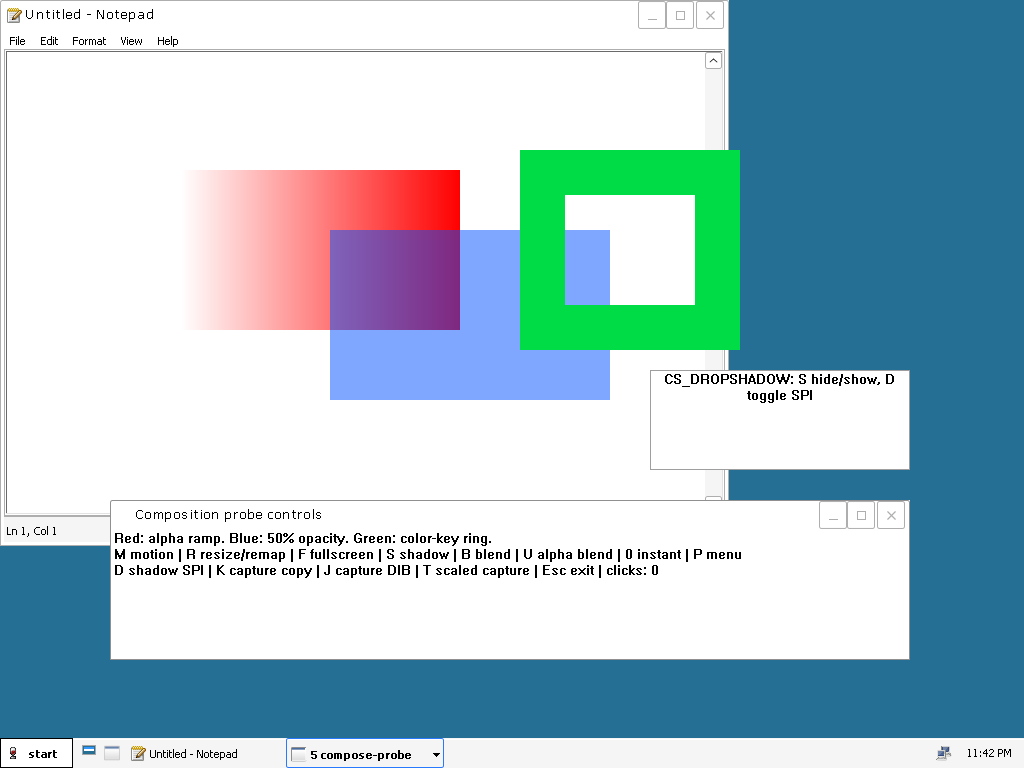
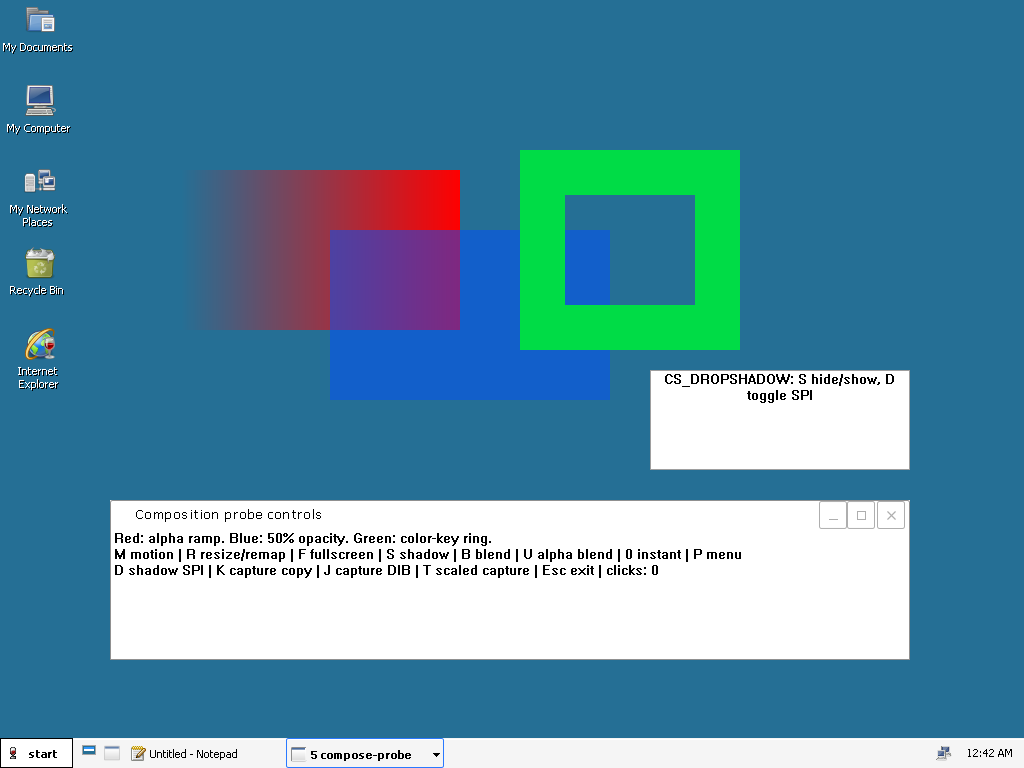
docs: Complete Wayland L1 acceptance and combined-build handoff

diff --git a/docs/WAYLAND_L1.md b/docs/WAYLAND_L1.md
@@ -1,23 +1,54 @@
 <!-- SPDX-License-Identifier: GPL-2.0-or-later -->
 # Wayland L1 Wine integration
 
-Status: in progress, 2026-10-13. Acceptance is not yet claimed.
+Status: complete, 2026-10-14. Accepted integration is merged and pushed.
 Scope: WAYLAND_INTEGRATION_WORKORDER.md; shipping X11 stays unchanged.
 
 ## Environment
 
 Compositor development uses ProtonExplorer-VM (SSH 2223). Source/build is
-~/wexcomp-build, candidate codex/wex-window-handles at 192ab62b, from
+~/wexcomp-build, candidate codex/wex-window-handles at 9a47d74, from
 wexcomp ad962566bd169c3c27fafdaac9780a599fb7624a.
 Debian wlroots 0.18.2 development packages installed; meson/ninja build passes.
 No dev runtime or ISO defaults are changed. Gemini's WSL wexcomp/wexbuild
 distributions are untouched. Wine edits use the separate host fork worktree
-build/wayland/wine, branch codex/wayland-integration, now 3bb585c4ee. It includes
-the concurrent production f5016cf theme fix. Owned source is on the experimental
-project branch codex/wayland-l1 at 1e94efb9; master still ships X11.
+build/wayland/wine, branch codex/wayland-integration, now 05286f7c90. It includes
+the concurrent production theme commits through 70e6378514 and the verified
+Wayland integration through ea0654efdb. wineexplorer/11.19 is fast-forwarded
+to 05286f7c90; compositor wexcomp to 9a47d74f. Owned source and the Wine pin
+are merged into project master through 2853f509. Master still defaults to X11.
 Final WoW64 build is /srv/protonexplorer/wex-wayland-l1/wow64-source/build/wine64,
 configured with --enable-archs=i386,x86_64. Historical win64-only evidence below
-predates the new mandatory build rule; final WoW64 acceptance remains pending.
+predates the new mandatory build rule. Final WoW64 results are below.
+
+## Final WoW64 acceptance
+
+All tests use public resources and isolated prefixes. Recorded results on the
+ea0654efdb runtime, followed by a complete combined 05286f7c90 WoW64 build
+and click, native focus, composition, 32-bit Notepad and shell capture rechecks:
+
+| Requirement | Result / evidence |
+|---|---|
+| Full WoW64 build, both MinGW C++17 compilers | FINAL_WOW64_BUILD_PASSED; staged install and runtime package complete |
+| Shared coordinates, independently launched second process | Seven placements exactly match X11 at 100%; within 1 px at 150% |
+| Cross-process stacking, mixed bitness | WIN32_SHARED_STACKING_PASSED; 64-bit A/C and 32-bit B, relative orders, topmost and no focus theft |
+| Native `/shell`, desktop bottom, work area | 1024x768 desktop, taskbar at y=738, SPI_GETWORKAREA=(0,0)-(1024,738); no display-mode call |
+| Click activation and covered-window input | CLICK_RAISES_AND_DESKTOP_BOTTOM_PASSED; NoActivate preserves foreground; restored Notepad receives a covered-area click |
+| Taskbar minimize/restore, menus, 32-bit program | NOTEPAD32_TASKBAR_AND_MAXIMIZE_PASSED; real taskbar clicks, Alt+F, maximized visible frame stops at y=738; menu-wow64.png/maximized-wow64.png |
+| Topmost and shell layer | Topmost probe above maximized Notepad and below taskbar; topmost-wow64.png; Start menu opens in start-wow64.png |
+| Alpha, color key and requested rectangles | COMPOSE_PLACEMENT_AND_ALPHA_PASSED; five rectangles within 1 px; per-pixel ramp, 50% blue and key hole match X11 within one color value; compose-*-wow64.png |
+| Pointer warp | POINTER_PROTOCOL_AND_MOTION_PASSED; actual wp_pointer_warp_v1 request and motion at (950,600) |
+| Native Wayland keyboard focus roundtrip | NATIVE_FOCUS_RETURN_PASSED; Wine receives a/c, foot receives b; queued deactivation cannot clear newer activation |
+| XWayland alongside Wine | XWAYLAND_AND_WINE_FOCUS_RETURN_PASSED; mixed-xwayland-wow64.png |
+| Stock labwc / private v1 fallback | STOCK_CAPTURED / V1_FALLBACK_PASSED; menu screenshots, v1 minimize/restore without v2 handles |
+| Compositor protocol regression | 26/26, including three independent v2 clients, stale/self/cross-layer isolation and non-raising inactive restore |
+| X11 on build and dev VMs | Focus/NoActivate/tray bounds pass; eight 800x600 native-dialog cases pass after readiness polling |
+| X11 D1/D2 on build and dev VMs | Five D1 cycles pass; D2 blending and restored styles/attributes pass; d2-effects-wow64.png |
+
+CS_DROPSHADOW pixels under Wayland remain the known L0 gap (D3 work), and are
+not claimed here. This is an opt-in test session; no ISO or shipping session
+default changes. Existing screenshots without a WoW64 suffix are historical;
+the table distinguishes them from final WoW64 evidence.
 
 ## Integration finding
 
@@ -306,6 +337,22 @@ Additional command failures/corrections:
   Concurrent visual-style commits through 70e6378514 merge cleanly; combined
   build acceptance is pending. A compositor ls-remote using origin failed because
   its bare cache has no origin; use the explicit public repository URL.
+- First combined-build transfer used TarInfo's default 1970 timestamp; make
+  skipped the changed sources and printed success without compiling the new
+  msstyles_v4 file. That status is rejected. Set current archive timestamps,
+  re-extract and rebuild; Makefile contains both architectures' new module and
+  CURRENT_THEME_WOW64_BUILD_PASSED follows actual compilation. Tar warned that
+  host timestamps were 2-3 seconds ahead of the VM; make completed correctly.
+- First combined-session click run reached the readiness deadline before the
+  shell was visible; its log was empty and later phases were not run. Warm repeat
+  passes click/covered input, native focus and composition comparison. An attempted
+  explorer.log read failed; the launcher's file is shell.log. Combined-build
+  32-bit Notepad taskbar/menu/maximize and Start/topmost captures also pass.
+- SHA-256 source manifest matches all 25 integration/theme files to 05286f7c90;
+  the assembled checkout's old Git version string is not its effective source
+  identity. checks/source-candidate.txt records the verified candidate. Do not
+  reset the assembled tree. Final nested session.Y9Dz8L/Xvfb :30 is stopped;
+  isolated Wine/compositor exited, both real VM desktops remain running.
 
 The helper scripts are test tools, not session/ISO defaults. Compile dependencies:
 both MinGW GCC architectures; capture/input dependencies: grim, ImageMagick,

diff --git a/docs/CODEX_HANDOFF.md b/docs/CODEX_HANDOFF.md
@@ -1,4 +1,56 @@
-# Codex handoff — 2026-10-13 refactor complete
+# Codex handoff — 2026-10-14 Wayland L1 complete
+
+Current work order WAYLAND_INTEGRATION_WORKORDER.md is complete. Read
+WAYLAND_L1.md for acceptance, failed-command corrections and public screenshots.
+The older refactor/installer notes below are historical; preserve their safety
+rules, but use these current pins for new builds.
+
+- Project master includes the five owned shell role/appbar/native-host changes
+  through merge 2853f509. Wine gitlink and wineexplorer/11.19 are
+  05286f7c90db81182be43ec257234b7cb3805672. This merges the accepted Wayland
+  integration through ea0654efdb with concurrent visual-style work through
+  70e6378514. Compositor wexcomp and codex/wex-window-handles are
+  9a47d74f365c4b42310b51e81916592a40d3046f. All updates are fast-forwards.
+- Every new Wine build must use --enable-archs=i386,x86_64 with both MinGW
+  C++17 compilers. Full combined build passes; 32-bit Notepad and mixed 32/64
+  cross-process stacking pass. No Gemini WSL distributions were used.
+- The new native explorer /shell path uses the compositor's desktop and output
+  modes. Standard optional xx-zones handles placement/shared coordinates;
+  private wex-window v2 uses opaque compositor handles published through shared
+  Win32 atoms for cross-process stacking. v1 requests remain compatible.
+- Click/NoActivate, desktop-bottom, taskbar minimize/restore and reservation,
+  topmost, menu, Start, pointer warp, alpha/color key, foot/XWayland focus and
+  DPI placement pass. Compositor suite 26/26. Stock labwc/v1 fallback pass.
+  Shipping X11, D1/D2 and native dialog bounds pass on isolated build/dev sessions.
+- Wine Wayland standard-only branch upstream/winewayland-zones ends at
+  01607e166c, with prepared description in UPSTREAM.md. User submits WineHQ MRs
+  manually. No MR was opened. Private protocol/roles remain fork-only.
+- Host restarted during testing. Both VirtualBox VMs are running: dev SSH 2222,
+  Proton build SSH 2223, wineuser, key D:/VirtualBox_VMs/vm_key. Real production
+  desktops were not restarted or replaced. User's .gitignore *.tmp edit is
+  intentionally uncommitted.
+- The final nested Wayland test session on Xvfb :30 was stopped after captures;
+  its compositor and isolated Wine processes exited. Both real desktops remain
+  running. Logs/screenshots are retained under the build root's checks directory.
+- Accepted build root: /srv/protonexplorer/wex-wayland-l1/wow64-source/build/wine64
+  on Proton VM. Assembled source was updated without resetting/rebasing its Git
+  checkout: its version string still names 3bb585c4ee, while checks/source-candidate.txt
+  and SHA-256 verification of all 25 changed integration/theme files identify
+  05286f7c90. Do not reset this assembled tree. Build status is
+  checks/wow64-current-theme-build.status CURRENT_THEME_WOW64_BUILD_PASSED.
+- The packaged public runtime-wow64-public.tar.gz (host build/wayland, guest
+  root above; dev ~/wex-wayland-l1/runtime-wow64) contains accepted ea0654efdb
+  code before the later visual-style merge. Dev X11 acceptance used this package.
+  Repackage the combined 05286f7c90 source before any deployment/ISO work; no
+  globally installed runtime or ISO default was changed for L1.
+- Maintained replay tools: scripts/wayland-session.sh and wayland-l1-check.sh,
+  plus C/Python probes described in WAYLAND_L1.md. Lab prefixes are isolated from
+  ~/.wine. Test-only session defaults to ~/wexcomp-build/build/labwc and private
+  wex-shell-0 for every Wine process. Normal Linux apps use the normal socket.
+  CS_DROPSHADOW pixels remain the known Wayland D3 gap; global hotkey forwarding
+  is L4. Foreign Linux window frames are L2. These are separate work orders.
+
+## Historical refactor handoff — 2026-10-13
 
 Read CLAUDE.md, LICENSE.md and STOCK_CHANGES.md first. All items in
 REFACTOR_WORKORDER.md are complete, including P3b extraction, P4 fresh

diff --git a/docs/STOCK_CHANGES.md b/docs/STOCK_CHANGES.md
@@ -5,7 +5,9 @@ rebasing on upstream Wine harder. Refactor baseline = the real `wine-11.19` tag
 (`455e3509b98a6919fd4ad1def4803e08c41c03b2`); see `REFACTOR_MAP.md` for the audit.
 Commit `40c17e1` is the imperfect upstream import, which also includes post-tag upstream changes.
 
-P4 now tracks Wine as a gitlink to d0a0af0681 on wineexplorer/11.19.
+P4 established Wine as a gitlink to d0a0af0681 on wineexplorer/11.19.
+Current pin is 05286f7c90, including accepted opt-in Wayland L1 integration
+and concurrent visual-style support. See WAYLAND_L1.md; X11 remains the default.
 Project CPLs/programs, wexhost and theme definitions live under src.
 Display Properties, wireless UI and media player replace stock stub modules
 through explicit assembly entries, with pristine originals preserved.
@@ -37,8 +39,7 @@ smoke without changing the production pin (REBASE.md).
 | `dlls/winewayland.drv` xx-zones-v1 | optional shared per-socket coordinate zone; volatile registry token supports independently launched processes; map/move positioning and feedback with surface scaling and tracked xdg geometry offset | only when compositor advertises xx_zone_manager_v1; upstream/winewayland-zones aed8b9599c + 01607e166c; retained 853c5b02c7 + 1bab2dda87 on codex/wayland-integration; seven placements match X11 exactly at 100% and within 1 px at 150% |
 | `dlls/winewayland.drv`; `include/wexwayland.h` | privileged layers, shared-handle cross-process relative stacking, native activation hook and minimized restore; generic scalar role/edge/size properties, no class checks | optional wex_window_manager_v1; ce019d67c7 + header correction 996f87f33f; activation/configure a83412b0ed; maximized work-area borders e3be0174be; shared atoms 97eb62958c; focus acknowledgement 89735ec1ef; background restore/logical stacking 624720e2b6; native focus loss with stale-event guard ea0654efdb; v1 same-connection fallback; v2 compositor 9a47d74 passes 26/26 |
 | `dlls/win32u/message.c` | skip implicit click activation of a WS_EX_NOACTIVATE root | generic Win32 style fix 8f1717c8f3; verified private Wayland and X11; upstream baseline incorrectly activated it |
-| `programs/explorer/desktop.c`, `explorer.c` | /shell without /desktop starts the plugin on the driver's desktop and skips display mode changes | explicit /shell only; candidate d7d46937a3, isolated Wayland shell starts; shipping pin remains unchanged pending acceptance |
-| `dlls/win32u/message.c` | do not mouse-activate a top-level carrying WS_EX_NOACTIVATE; explicit programmatic activation and MA_NOACTIVATE remain separate | generic candidate bug fix; real click tests pass under private Wayland and X11; old X11 baseline activates the NoActivate window, corrected build preserves the preceding foreground window |
+| `programs/explorer/desktop.c`, `explorer.c` | /shell without /desktop starts the plugin on the driver's desktop and skips display mode changes | explicit /shell only; d7d46937a3 included in accepted 05286f7c90; native Wayland shell passes |
 | `programs/explorer/desktop.c`, `explorer.c`; `include/wexshell.h` | load the versioned wexshell.dll plugin for the Windows-style shell and route its browser/applet commands; implementation lives in project modules under `src/dlls` (wexshell, wexres, themeui, msgina), while the stock host retains desktop creation, clipboard, COM registration and its message loop | shell startup only when `EnableShell=1` (`HKCU\Software\Wine\Explorer\Desktops\<name>`), named `shell`, or requested with `/shell`; missing/incompatible plugin uses stock behavior |
 | `programs/explorer/desktop.c` | `/shell` switch (before the program to run) enables the shell for that desktop; used by the Winlogon-style session script | only when given |
 | `programs/explorer/explorer.c` | `/wlan`, `/netstatus`, `/netprops` helper switches; `::{CLSID}` paths and `/e` accepted | token-based, only when given as arguments |

diff --git a/docs/UPSTREAM.md b/docs/UPSTREAM.md
@@ -256,9 +256,10 @@ Logs, exit codes and commit ids live in
 Fetch validated commits over the existing SSH connection and push from the
 host, keeping GitHub credentials off the guest.
 
-## Wine Wayland zones — 2026-10-13
+## Wine Wayland zones — 2026-10-14
 
-Branch: upstream/winewayland-zones, commit aed8b9599c46db289fd8f193e045e1ad11628bad,
+Branch: upstream/winewayland-zones, initial commit aed8b9599c46db289fd8f193e045e1ad11628bad
+and geometry correction 01607e166c (branch head),
 based on upstream master 081042ede6a165a36bf9988350dd584b440d7a3d.
 Submission remains manual; no WineHQ MR has been opened.
 
@@ -274,10 +275,12 @@ position feedback and rejoin/re-place on zone changes. Keep existing behavior
 when the protocol is absent. Vendor the MIT XML unchanged; new driver code is
 available under LGPL-2.1-or-later or GPL-2.0-or-later.
 
-Validation: Wine Wayland driver builds on Debian 13; six stationary windows match
-X11 captures pixel-for-pixel, and a second process joins the same handle and
-places its seventh window exactly at (740,50). Maintained probes:
+Validation: complete WoW64 build on Debian 13; six stationary windows match
+X11 captures pixel-for-pixel at 100%, and a second process joins the same handle
+and places its seventh window exactly at (740,50). At 150% all seven placements
+are within 1 px of X11. Maintained probes:
 scripts/wayland-position-probe.c and scripts/check-wayland-positions.py.
-The compositor's existing protocol suite passes 25/25. Final integration
-acceptance, stock-labwc fallback and fractional-DPI coverage remain in progress
-in WAYLAND_L1.md; this topic is prepared but not yet marked fully submission-ready.
+The compositor's protocol suite passes 26/26. Stock-labwc fallback and X11
+regression checks pass; final integration evidence is in WAYLAND_L1.md.
+This standard-only topic is ready for manual submission; private wex-window-v1
+and shell roles remain fork-only and are not part of this upstream branch.

diff --git a/docs/WAYLAND_CROSS_PROCESS_STACKING.md b/docs/WAYLAND_CROSS_PROCESS_STACKING.md
@@ -1,14 +1,15 @@
 <!-- SPDX-License-Identifier: GPL-2.0-or-later -->
 # Private protocol extension for cross-process stacking
 
-Status: user approved the compositor extension on 2026-10-13. Implementation and
-acceptance tests are in progress on codex/wex-window-handles in the Proton VM
-clone. Gemini's WSL distributions remain untouched.
+Status: implemented and verified, 2026-10-14. The user approved the extension
+on 2026-10-13. Compositor candidate codex/wex-window-handles is 9a47d74f;
+Wine integration through ea0654efdb is included in 05286f7c90. Gemini's WSL
+distributions remain untouched. Detailed acceptance: WAYLAND_L1.md.
 
 The v1 place_above/place_below sibling arguments are Wayland objects. They can
 reference only objects on the caller's connection. All shell Wine processes
 connecting to wex-shell-0 does not make their objects interchangeable.
-Wine's HWND list spans processes; current v1 integration can preserve layers
+Wine's HWND list spans processes; v1 integration can preserve layers
 and same-process relative order, but cannot express a foreign-process sibling.
 
 ## Version 2
@@ -43,3 +44,10 @@ a sibling in another process, SWP_NOACTIVATE, HWND_BOTTOM, topmost transitions,
 and activation/minimize/restore. Confirm v1/stock-labwc fallback and X11.
 Use the Proton VM clone and a separate codex branch; do not enter Gemini's WSL
 distributions or alter ISO/session defaults.
+
+Completed: compositor suite passes 26/26, including three independent v2
+clients, both relative orders, stale/unknown/self handles, cross-layer guards,
+normal-socket isolation and inactive restore preserving focus and normal order.
+The maintained Win32 harness passes with two 64-bit processes and a 32-bit
+process sharing HWND atoms. Private v1 and stock-labwc fallback, X11, real
+click activation, taskbar minimize/restore and native-app focus return pass.

diff --git a/docs/WAYLAND_PLAN.md b/docs/WAYLAND_PLAN.md
@@ -86,7 +86,7 @@ On all of them Wine apps run through XWayland by default; the Wayland driver is 
 | Phase | Work | Size |
 |---|---|---|
 | **L0 spike** | Measure the gaps (work order below) | days |
-| L1 | Compositor skeleton (tinywl/labwc) + layer-shell roles in Wine's driver + `wex-window-v1` + the Wine driver commit for it | weeks |
+| L1 | Compositor skeleton (tinywl/labwc) + layer-shell roles in Wine's driver + `wex-window-v1` + the Wine driver commit for it | Completed 2026-10-14; opt-in session, acceptance in WAYLAND_L1.md |
 | L2 | Linux apps: foreign toplevels, Explorer frames, XWayland | weeks |
 | L3 | D1/D2 effects and capture in the compositor | 1–2 weeks |
 | L4 | Hotkeys, session lock, Wayland greeter (LightDM), output management, multi-monitor | weeks |

diff --git a/docs/WAYLAND_INTEGRATION_WORKORDER.md b/docs/WAYLAND_INTEGRATION_WORKORDER.md
@@ -99,6 +99,10 @@ compositor) or `wexbuild` (Gemini's installer work). Never use the dev VM's genu
 
 ## Acceptance (record in `docs/WAYLAND_L1.md`, screenshots in `docs/wayland-l1/`)
 
+Completed 2026-10-14: [acceptance and restart record](WAYLAND_L1.md).
+Wine pin 05286f7c90 and compositor wexcomp 9a47d74f include the accepted
+integration. Wayland session is opt-in; shipping X11 defaults stay in place.
+
 Re-run the L0 matrix (`docs/WAYLAND_L0.md`) and add:
 - `compose-probe` windows at their requested positions, within 1 px of the same probe on X11 Xvfb, including a
   second process;
